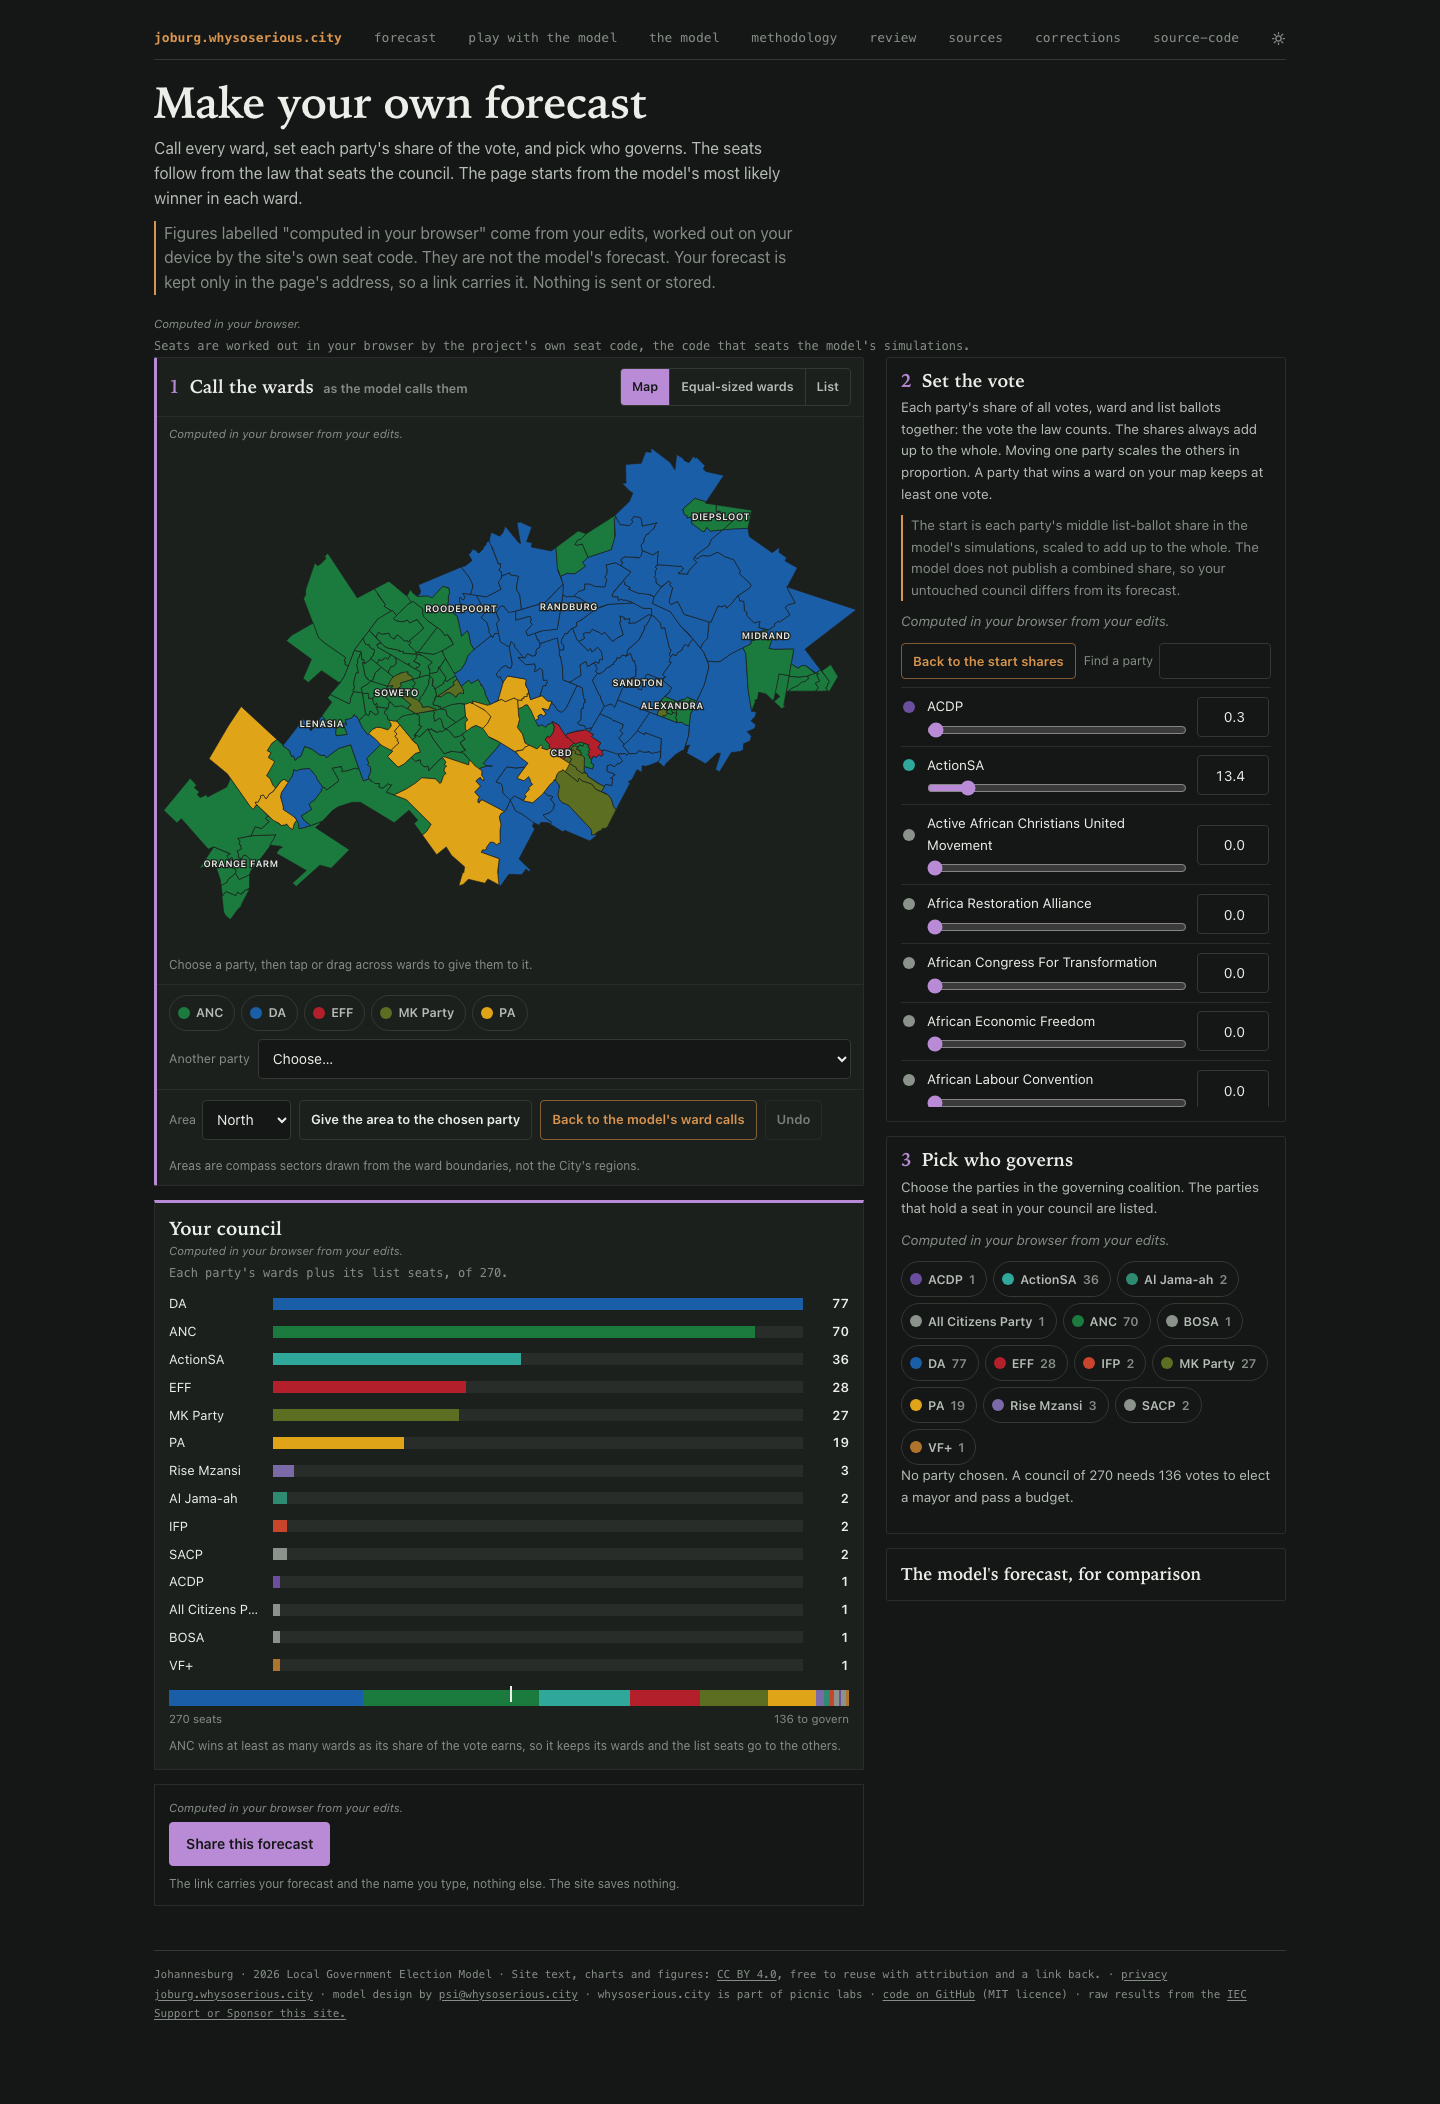
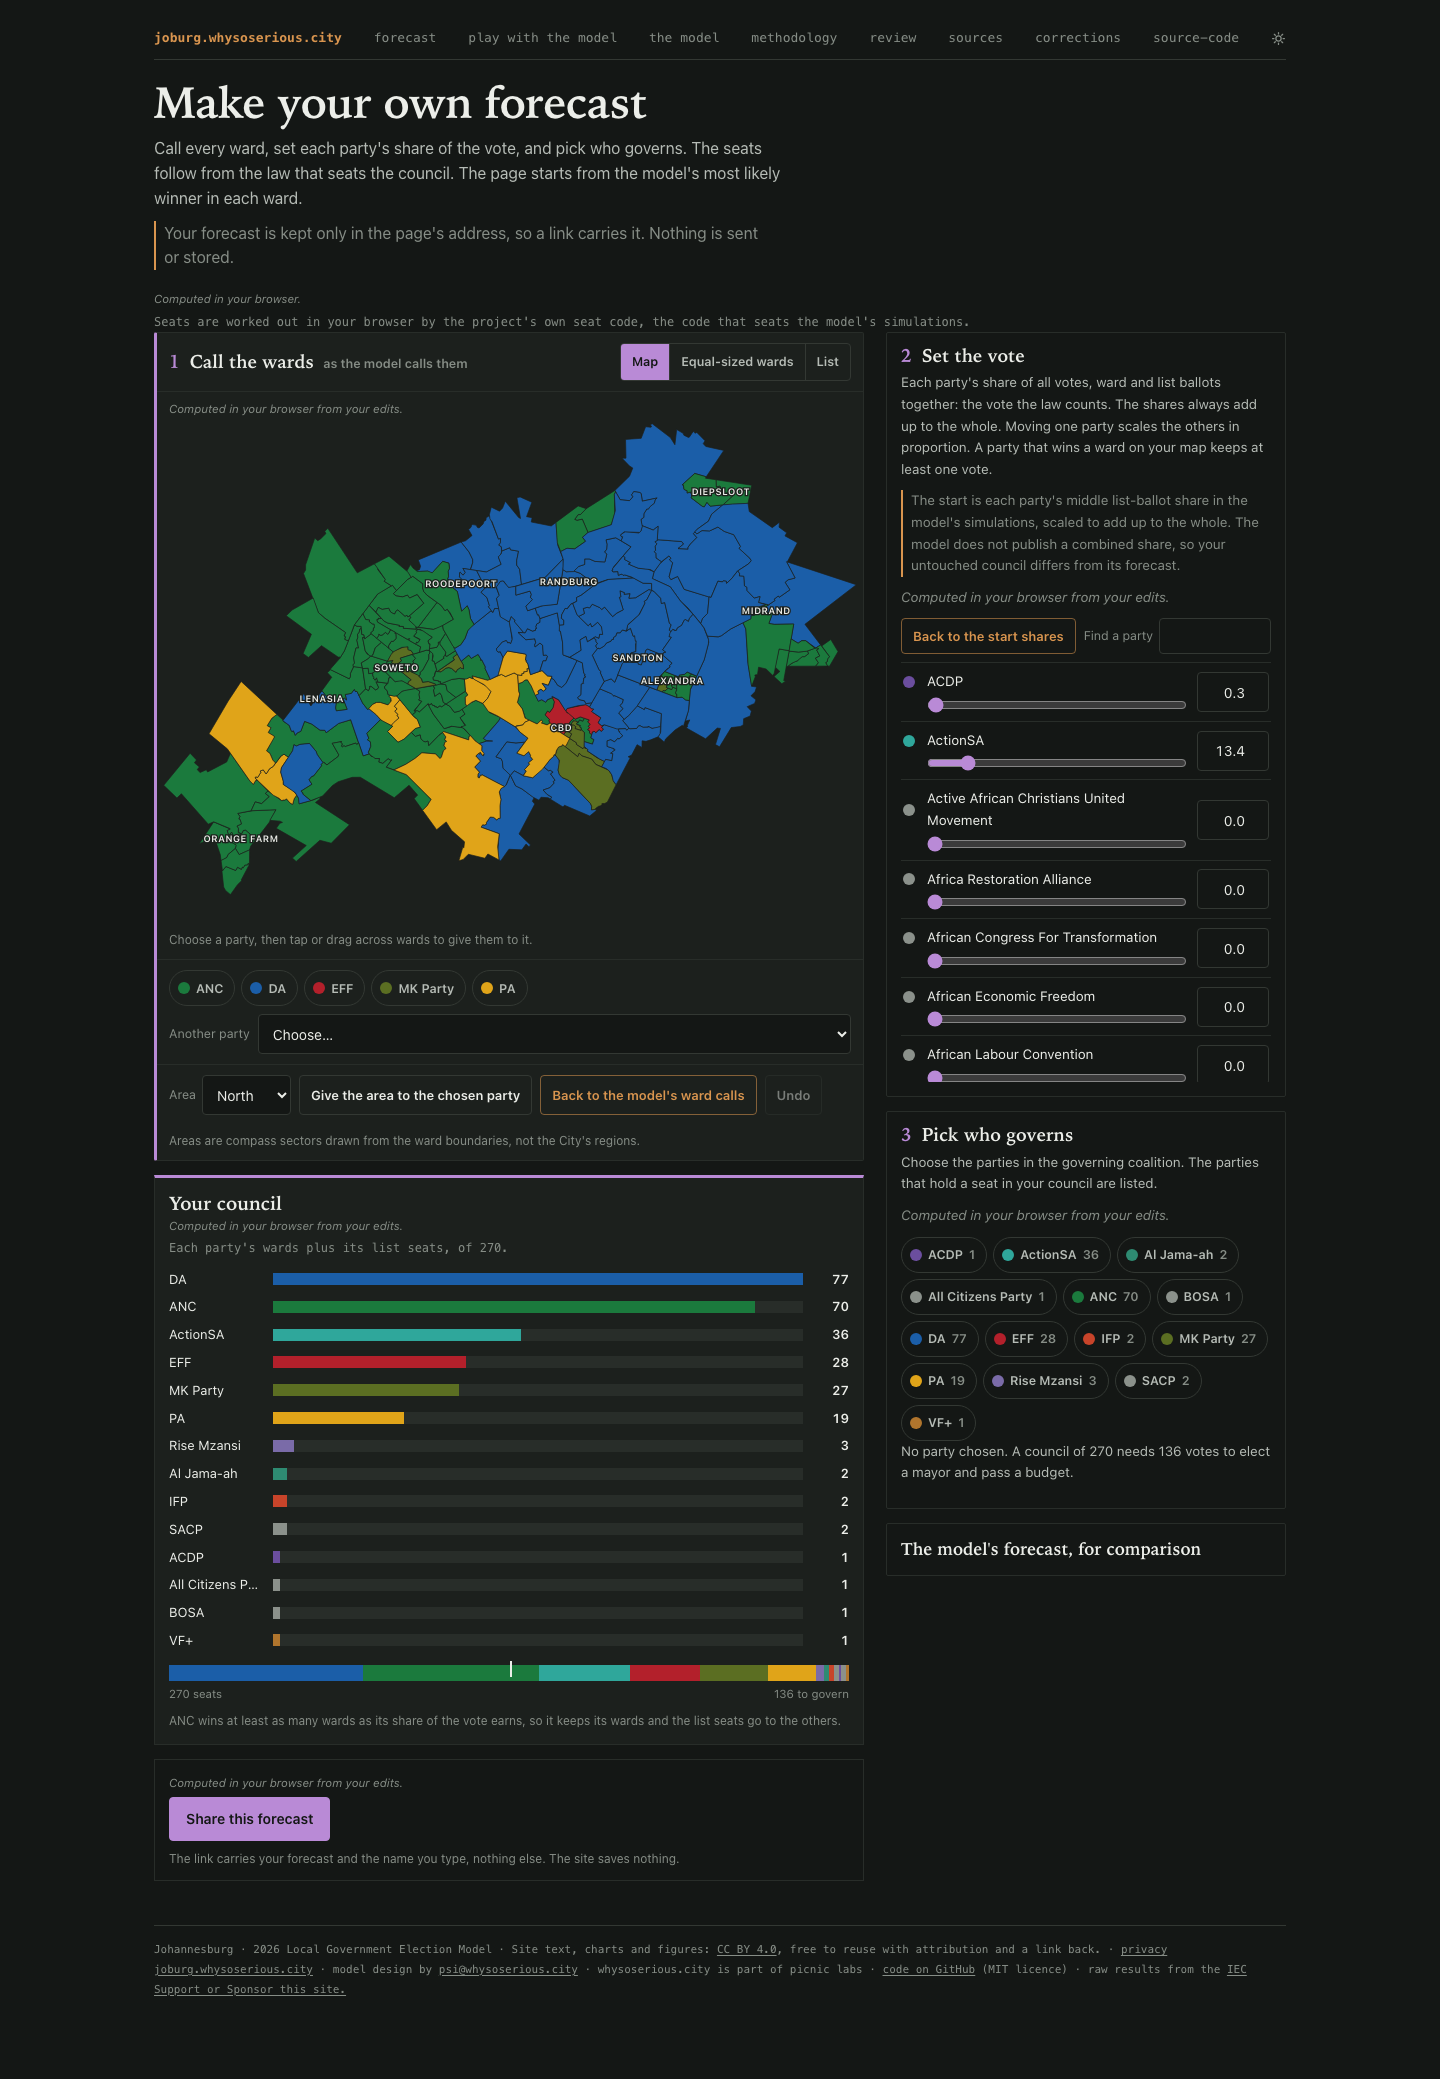
/make/: election date from the city config; share image race; shorter mobile lede
- The share image's "Johannesburg council, 4 November 2026" now comes from
  cities/joburg.toml (city name, election_date) through make/forecast.json,
  not typed in make-share.js.
- make-share.js: an older image draw finishing after a newer one no longer
  replaces it (the downloaded card could lack the name just typed).
- The lede's provenance paragraph is one sentence, so the map comes sooner on
  a phone; the 375 default screenshot is full-page.
- site/ rebuilt the UAT way again (scratch ledger, first 665 rows, mechanism,
  the r-c68c627d287e reason); real ledger byte-unchanged. Screenshots retaken.

Claude-Session: https://claude.ai/code/session_012RyxK1PFFCs6HBC4cKAbye

diff --git a/interactive/js/make-share.js b/interactive/js/make-share.js
@@ -56,6 +56,10 @@ export function setShareable(info) {
 
 const say = s => { S.toast.textContent = s; };
 
+// "2026-11-04" as "4 November 2026", from the city config the build read.
+const MONTHS = "January February March April May June July August September October November December".split(" ");
+const dateText = iso => { const [y, m, d] = iso.split("-").map(Number); return d + " " + MONTHS[m - 1] + " " + y; };
+
 // The card's words and figures, from the seats the page is showing.
 export function cardOf(info) {
   const { seats, council, majority, coalition, party } = info;
@@ -71,7 +75,7 @@ export function cardOf(info) {
     : "";
   return {
     name: info.name,
-    subtitle: "Johannesburg council, 4 November 2026 · " + council + " seats, " + majority + " for a majority",
+    subtitle: info.election.city + " council, " + dateText(info.election.date) + " · " + council + " seats, " + majority + " for a majority",
     map: { W: info.geom.W, H: info.geom.H, wards: info.geom.wards.map((w, i) => ({ path: w.path, fill: party(info.calls[i]).colour })) },
     rows, note,
     foot: ["A reader's forecast: the reader called the wards and set the vote, and the seats follow from the law. Not the model's forecast.",
@@ -92,14 +96,15 @@ async function draw() {
   S.dl.disabled = true;
   const card = cardOf(info);
   S.img.alt = forecastCardAlt(card);
+  let made;
   try {
-    png = await svgToPNG(buildForecastCardSVG(card), [W, H], { src: PHOTO_SRC, ...PHOTO });
+    made = await svgToPNG(buildForecastCardSVG(card), [W, H], { src: PHOTO_SRC, ...PHOTO });
   } catch (e) {
-    say("The image could not be drawn in this browser. The link still works.");
-    S.native.disabled = false;
+    if (ticket === drawing) { say("The image could not be drawn in this browser. The link still works."); S.native.disabled = false; }
     return;
   }
-  if (ticket !== drawing) return;
+  if (ticket !== drawing) return;           // a newer draw replaced this one
+  png = made;
   if (shown) URL.revokeObjectURL(shown);
   shown = URL.createObjectURL(png);
   S.img.src = shown;

diff --git a/site/make/js/make-share.js b/site/make/js/make-share.js
@@ -56,6 +56,10 @@ export function setShareable(info) {
 
 const say = s => { S.toast.textContent = s; };
 
+// "2026-11-04" as "4 November 2026", from the city config the build read.
+const MONTHS = "January February March April May June July August September October November December".split(" ");
+const dateText = iso => { const [y, m, d] = iso.split("-").map(Number); return d + " " + MONTHS[m - 1] + " " + y; };
+
 // The card's words and figures, from the seats the page is showing.
 export function cardOf(info) {
   const { seats, council, majority, coalition, party } = info;
@@ -71,7 +75,7 @@ export function cardOf(info) {
     : "";
   return {
     name: info.name,
-    subtitle: "Johannesburg council, 4 November 2026 · " + council + " seats, " + majority + " for a majority",
+    subtitle: info.election.city + " council, " + dateText(info.election.date) + " · " + council + " seats, " + majority + " for a majority",
     map: { W: info.geom.W, H: info.geom.H, wards: info.geom.wards.map((w, i) => ({ path: w.path, fill: party(info.calls[i]).colour })) },
     rows, note,
     foot: ["A reader's forecast: the reader called the wards and set the vote, and the seats follow from the law. Not the model's forecast.",
@@ -92,14 +96,15 @@ async function draw() {
   S.dl.disabled = true;
   const card = cardOf(info);
   S.img.alt = forecastCardAlt(card);
+  let made;
   try {
-    png = await svgToPNG(buildForecastCardSVG(card), [W, H], { src: PHOTO_SRC, ...PHOTO });
+    made = await svgToPNG(buildForecastCardSVG(card), [W, H], { src: PHOTO_SRC, ...PHOTO });
   } catch (e) {
-    say("The image could not be drawn in this browser. The link still works.");
-    S.native.disabled = false;
+    if (ticket === drawing) { say("The image could not be drawn in this browser. The link still works."); S.native.disabled = false; }
     return;
   }
-  if (ticket !== drawing) return;
+  if (ticket !== drawing) return;           // a newer draw replaced this one
+  png = made;
   if (shown) URL.revokeObjectURL(shown);
   shown = URL.createObjectURL(png);
   S.img.src = shown;

diff --git a/site/make/index.html b/site/make/index.html
@@ -131,9 +131,7 @@
     <h1>Make your own forecast</h1>
     <p>Call every ward, set each party's share of the vote, and pick who governs. The seats follow from the law that
       seats the council. The page starts from the model's most likely winner in each ward.</p>
-    <p class="pos">Figures labelled "computed in your browser" come from your edits, worked out on your device by the
-      site's own seat code. They are not the model's forecast. Your forecast is kept only in the page's address, so a
-      link carries it. Nothing is sent or stored.</p>
+    <p class="pos">Your forecast is kept only in the page's address, so a link carries it. Nothing is sent or stored.</p>
   </header>
 
   <noscript><p class="notours">This page needs JavaScript. The <a href="../forecast">model's forecast</a> works without it.</p></noscript>

diff --git a/interactive/make.html b/interactive/make.html
@@ -65,9 +65,7 @@
     <h1>Make your own forecast</h1>
     <p>Call every ward, set each party's share of the vote, and pick who governs. The seats follow from the law that
       seats the council. The page starts from the model's most likely winner in each ward.</p>
-    <p class="pos">Figures labelled "computed in your browser" come from your edits, worked out on your device by the
-      site's own seat code. They are not the model's forecast. Your forecast is kept only in the page's address, so a
-      link carries it. Nothing is sent or stored.</p>
+    <p class="pos">Your forecast is kept only in the page's address, so a link carries it. Nothing is sent or stored.</p>
   </header>
 
   <noscript><p class="notours">This page needs JavaScript. The <a href="../forecast">model's forecast</a> works without it.</p></noscript>

diff --git a/interactive/js/make.js b/interactive/js/make.js
@@ -335,6 +335,7 @@ function share() {
   setShareable({
     url: location.href, name: S.name, calls: state.calls, seats: result.seats,
     council: result.council_total, majority: result.majority, coalition: S.coalition, geom, party: c => byCode[c],
+    election: D.election,
   });
 }
 onNameChange(n => { S.name = n; writeURL(); });

diff --git a/site/make/js/make.js b/site/make/js/make.js
@@ -335,6 +335,7 @@ function share() {
   setShareable({
     url: location.href, name: S.name, calls: state.calls, seats: result.seats,
     council: result.council_total, majority: result.majority, coalition: S.coalition, geom, party: c => byCode[c],
+    election: D.election,
   });
 }
 onNameChange(n => { S.name = n; writeURL(); });

diff --git a/src/build_make.py b/src/build_make.py
@@ -260,10 +260,14 @@ def forecast_data(draws: Path = DRAWS) -> dict:
     # What a link is read against: change any of these and an old link's
     # positions mean different parties, wards or votes (js/make-state.js).
     context_ref = _sha(json.dumps([ctx["parties"], ctx["wards"], schema["x-total-votes"]]).encode())[:12]
+    city = cityconfig.active()
+    election = {"city": city.name,
+                "date": str(city.structure_for(city.default_target)["election_date"])}
     return {
         "_about": ("Written by src/build_make.py from the published draws (site/draws/). "
                    "Do not edit."),
         "model_ref": artefact["model_ref"],
+        "election": election,
         "context_ref": context_ref,
         "draws_sha256": _sha(raw),
         "total_votes_source": total_src,

diff --git a/content/joburg/NUMBERS-REVIEW.md b/content/joburg/NUMBERS-REVIEW.md
@@ -1,5 +1,5 @@
 # Numbers on the site — generated by build_site.py, do not edit
-<!-- built-pages: about.html=f579dd4bc9a7107690d6ad73312127dc2c34c22be57262bb09795473f197b5d9 corrections.html=d8a7693a979611187ec4e24dd41241a79ba813fa7ff4e44c35a951b39e5c4f41 forecast.html=48f1f1fde5cbe0440917eab0c65075f142085ca282fa83dd649a287144083372 index.html=e4d9a56ac059d986ecf6f30e46bcb47c6eb4498a53f9c2c726ab145cc15e8f94 make/index.html=b4b8d0b624b4e0c3f65b93f08cb0d28eea3ab29872a7238122977c7e2756fe68 methodology.html=2d06b0aa24cc584af7f274679f75153305188a4647cddbb6f3cfe65de0351bd1 nobody-will-win.html=660828f7172994497cec370db0fd9246f3fc180d0f12db9184ec96545af39d02 play/index.html=2daa82bd574aeaae39892d61658ea17d89ca6088afa180543e0a8a96fd2d2f39 portal.html=6fd0dbfb9d836800f0df4a5973e5572877c5ef52bcbb38a3c08fce91dfaeb9e7 privacy.html=66590f50e5ff7daf92d6e1d738451475ee6c99daf1ee13431a14522db1e1c848 review.html=a558b73667a6721f656f8af84d4a611a077270d8e12849c788149d6233ea70c5 sources.html=c555a8ae0dab818542069e118aa5b9ba087e144ed91a8d16ec6162cb892c3ea8 support.html=f629305c2679fc2bef7a53c479aed336864e4a2415b6fd97d8db75f864ebe69c blocking=0 -->
+<!-- built-pages: about.html=f579dd4bc9a7107690d6ad73312127dc2c34c22be57262bb09795473f197b5d9 corrections.html=d8a7693a979611187ec4e24dd41241a79ba813fa7ff4e44c35a951b39e5c4f41 forecast.html=48f1f1fde5cbe0440917eab0c65075f142085ca282fa83dd649a287144083372 index.html=e4d9a56ac059d986ecf6f30e46bcb47c6eb4498a53f9c2c726ab145cc15e8f94 make/index.html=658fe60e546011924a95be9574cc5db67304c70b86cb51556e2e0ff87e9864cd methodology.html=2d06b0aa24cc584af7f274679f75153305188a4647cddbb6f3cfe65de0351bd1 nobody-will-win.html=660828f7172994497cec370db0fd9246f3fc180d0f12db9184ec96545af39d02 play/index.html=2daa82bd574aeaae39892d61658ea17d89ca6088afa180543e0a8a96fd2d2f39 portal.html=6fd0dbfb9d836800f0df4a5973e5572877c5ef52bcbb38a3c08fce91dfaeb9e7 privacy.html=66590f50e5ff7daf92d6e1d738451475ee6c99daf1ee13431a14522db1e1c848 review.html=a558b73667a6721f656f8af84d4a611a077270d8e12849c788149d6233ea70c5 sources.html=c555a8ae0dab818542069e118aa5b9ba087e144ed91a8d16ec6162cb892c3ea8 support.html=f629305c2679fc2bef7a53c479aed336864e4a2415b6fd97d8db75f864ebe69c blocking=0 -->
 
 Every number-shaped string a reader can see that is not a token. Clear a row by making it a `{{token}}` or registering it under `[[audit.fixed]]` in `content/<city>/stats.toml` (value, context, kind, source, reviewed). `BLOCKS` rows stop `--publish`.
 
